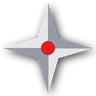
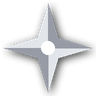
0.40.0: todos os menus no estilo da tela inicial nova
- Criar partida, opções (e vídeo avançado, controles), multijogador (lista, hospedar, rápida,
  ranqueada), campanha, resumos e o gerenciador: a faixa azul vira o tom escuro por cima do vídeo
  (preso às bordas da tela, qualquer que seja o tamanho da cena), as linhas soltas somem e a
  faixa de cima fica escura (mainmenu::restyle_frontend).
- As texturas dos menus pintadas na cor escolhida (menu_theme::themed_textures, paleta escura);
  o Menu moderno desliga sozinho com a Tela inicial nova ligada.
- Cenas: caixa de texto (tipo 10) e vídeo (tipo 9) lidos.
- Ícones dos botões todos brancos; faixa de cima nova (topbar).

Claude-Session: https://claude.ai/code/session_017y1uhTCr6spDjXZeXiXGPY

Changed region(s): [[0.4062, 0.4062, 0.5938, 0.5938]]

diff --git a/src/components/StartScreenCard.tsx b/src/components/StartScreenCard.tsx
@@ -97,7 +97,7 @@ export default function StartScreenCard() {
         <span className="grow" />
         <Switch label={draft.enabled ? t("Desligar") : t("Ligar")} checked={draft.enabled} onChange={(on) => set({ enabled: on })} />
       </div>
-      <p className="muted small">{t("Logo em cima, botões grandes com ícone e borda neon, submenus ao lado, caixa do jogador e notícias. Os botões dos mods da Forja entram no mesmo visual. Só muda a aparência: o jogo e o multijogador continuam iguais.")}</p>
+      <p className="muted small">{t("Logo em cima, botões grandes com ícone e borda neon, submenus ao lado, caixa do jogador e notícias. Os outros menus (criar partida, opções, multijogador, campanha) ganham o mesmo visual e a mesma cor, e os botões dos mods da Forja entram junto. Só muda a aparência: o jogo e o multijogador continuam iguais.")}</p>
       <div className="ss-grid">
         <Preview s={draft} logo={v.logo} />
         <div className="col" style={{ gap: 14 }}>

diff --git a/src/lib/changelog.ts b/src/lib/changelog.ts
@@ -6,6 +6,14 @@ export interface Release { version: string; title: string; items: NewsItem[] }
 
 export const CHANGELOG: Release[] = [
   {
+    version: "0.40.0",
+    title: "Todos os menus no estilo novo",
+    items: [
+      { icon: "palette", title: "Menus remasterizados", text: "Criar partida, opções, multijogador, campanha e resumos ganham o visual da Tela inicial nova: tom escuro por cima do vídeo, faixa de cima escura e botões, painéis e listas na cor que você escolher.", page: "features" },
+      { icon: "category", title: "Ícones brancos", text: "Os ícones dos botões da tela inicial ficam todos brancos.", page: "features" },
+    ],
+  },
+  {
     version: "0.39.1",
     title: "Tela inicial nova e botões de mods no menu do jogo",
     items: [

diff --git a/crates/cp-core/src/startscreen.rs b/crates/cp-core/src/startscreen.rs
@@ -169,7 +169,7 @@ macro_rules! art {
 /// Os desenhos do launcher (nome → PNG).
 const ART: &[(&str, &[u8])] = art![
     "btn_u", "btn_o", "btn_at", "btn_w", "sub_u", "sub_o", "sub_at", "sub_w", "icon_campaign", "icon_skirmish", "icon_multiplayer",
-    "icon_options", "icon_extras", "icon_quit", "icon_mod", "shade", "tint", "panel", "gamertag", "avatar_frame",
+    "icon_options", "icon_extras", "icon_quit", "icon_mod", "shade", "tint", "panel", "gamertag", "avatar_frame", "topbar",
 ];
 
 fn to_dds(img: &Rgba) -> Result<Vec<u8>> {
@@ -267,6 +267,37 @@ pub fn prepare_logo(data: &[u8]) -> Result<Rgba> {
 /// Monta o `.scd` da tela inicial em `dest`. `scene` é a cena de origem (a do jogo ou a de outro
 /// mod), `edit` o que os mods da Forja pedem. Devolve os avisos da montagem.
 pub fn build(scene: &[u8], edit: &MenuEdit, settings: &Settings, stock: &[PathBuf], data_dir: &Path, dest: &Path) -> Result<(PathBuf, Vec<String>)> {
+    build_all(scene, &[], edit, settings, stock, data_dir, dest)
+}
+
+/// Opções do tema dos outros menus (as texturas do jogo pintadas na cor da tela inicial).
+pub fn theme_options(accent: &str) -> crate::menu_theme::ThemeOptions {
+    crate::menu_theme::ThemeOptions {
+        name: "Tela inicial nova".into(),
+        recolor: true,
+        fonts: false,
+        accent: accent.into(),
+        hover: String::new(),
+        bg_darkness: 0.8,
+        bg_tint: 0.12,
+        panel_opacity: 0.92,
+        glow: 0.5,
+        sharpness: 0.5,
+        deblock: 0.5,
+    }
+}
+
+/// Como [`build`], com os outros menus do jogo (caminho, cena de origem) no mesmo visual e as
+/// texturas deles pintadas na cor escolhida.
+pub fn build_all(
+    scene: &[u8],
+    others: &[(String, Vec<u8>)],
+    edit: &MenuEdit,
+    settings: &Settings,
+    stock: &[PathBuf],
+    data_dir: &Path,
+    dest: &Path,
+) -> Result<(PathBuf, Vec<String>)> {
     let accent = crate::menu_theme::parse_hex(&settings.accent).unwrap_or([43, 140, 255]);
     let look = Look::Commander(Commander { news_title: settings.news_title.clone(), news_text: settings.news_text.clone() });
     let logo = if settings.custom_logo {
@@ -291,6 +322,21 @@ pub fn build(scene: &[u8], edit: &MenuEdit, settings: &Settings, stock: &[PathBu
     }
     for (path, data) in &files {
         b.add_bytes(path, data)?;
+    }
+    // os outros menus: cenas no visual novo e as texturas do jogo na cor escolhida
+    for (path, data) in others {
+        match mainmenu::restyle_frontend(data) {
+            Ok(new) => b.add_bytes(path.trim_start_matches('/'), &new)?,
+            Err(e) => built.warnings.push(format!("{}: {e}", path.rsplit('/').next().unwrap_or(path))),
+        }
+    }
+    if !others.is_empty() {
+        let own: std::collections::HashSet<String> = files.iter().map(|(p, _)| p.to_ascii_lowercase()).collect();
+        for (name, data) in crate::menu_theme::themed_textures(stock, &theme_options(&settings.accent))? {
+            if !own.contains(&name.to_ascii_lowercase().replace('\\', "/")) {
+                b.add_bytes(&name, &data)?;
+            }
+        }
     }
     if settings.custom_video {
         let v = Settings::video_path(data_dir);
@@ -375,7 +421,18 @@ fn real_build_when_available() {
         std::fs::copy(logo, Settings::logo_path(&out.join("data"))).unwrap();
         settings.custom_logo = true;
     }
-    let (scd, warnings) = build(&std::fs::read(scene).unwrap(), &MenuEdit::default(), &settings, &stock, &out.join("data"), &out.join(ARCHIVE)).unwrap();
+    // CP_SS_SCENES: pasta com ui/scenes/... extraídos do jogo (os outros menus)
+    let mut others = vec![];
+    if let Ok(dir) = std::env::var("CP_SS_SCENES") {
+        for p in mainmenu::FRONTEND_SCENES {
+            if let Ok(d) = std::fs::read(PathBuf::from(&dir).join(p.trim_start_matches('/'))) {
+                others.push((p.to_string(), d));
+            }
+        }
+    }
+    let mut edit = MenuEdit::default();
+    edit.buttons.push(mainmenu::NewButton { key: "cp:atalho0".into(), label: "MEGA: 4 CONTRA 4".into(), place: mainmenu::Place::Skirmish, native: None, lua: false, code: Some("LOG('atalho')".into()) });
+    let (scd, warnings) = build_all(&std::fs::read(scene).unwrap(), &others, &edit, &settings, &stock, &out.join("data"), &out.join(ARCHIVE)).unwrap();
     assert!(warnings.is_empty(), "{warnings:?}");
     eprintln!("{}", scd.display());
 }

diff --git a/crates/cp-core/src/mainmenu.rs b/crates/cp-core/src/mainmenu.rs
@@ -645,6 +645,60 @@ fn commander(s: &mut Scene, c: &Commander, column: &[(u32, Option<&str>)]) -> Re
     Ok(())
 }
 
+/// Os outros menus do jogo (cenas) que ganham o visual da tela "Comandante".
+pub const FRONTEND_SCENES: &[&str] = &[
+    "/ui/scenes/frontend_skirmish/pc_frontend_skirmish.win.bdf",
+    "/ui/scenes/frontend_options/pc_frontend_options.win.bdf",
+    "/ui/scenes/frontend_options/pc_frontend_options_videoadv.win.bdf",
+    "/ui/scenes/frontend_options/pc_frontend_options_conlayout.win.bdf",
+    "/ui/scenes/frontend_mp_browser/pc_frontend_mp_browser.win.bdf",
+    "/ui/scenes/frontend_mp_host/pc_frontend_mp_host.win.bdf",
+    "/ui/scenes/frontend_mp_quickmatch/pc_frontend_mp_quickmatch.win.bdf",
+    "/ui/scenes/frontend_ranked/pc_frontend_ranked.win.bdf",
+    "/ui/scenes/frontend_campaign/pc_frontend_campaign.win.bdf",
+    "/ui/scenes/frontend_summary_sp/pc_frontend_summary_sp.win.bdf",
+    "/ui/scenes/frontend_summary_mp/pc_frontend_summary_mp.win.bdf",
+    "/ui/scenes/frontend_manager/pc_frontend_manager.win.bdf",
+];
+
+/// Um menu do jogo no visual "Comandante": a faixa azul vira o tom escuro por cima do vídeo (preso
+/// às bordas da tela, qualquer que seja o tamanho da cena), as linhas soltas somem e a faixa de
+/// cima fica escura. O resto (botões, painéis, listas) muda pelas texturas do tema.
+pub fn restyle_frontend(scene: &[u8]) -> Result<Vec<u8>> {
+    let mut s = Scene::parse(scene)?;
+    let tex = |n: &str| format!("{TEX}{n}.dds");
+    let full = Anchors { left: Some(0), right: Some(0), top: Some(0), bottom: Some(0), ..Default::default() };
+    let has = |s: &Scene, n: &str| s.by_name(n).ok().map(|e| e.id);
+    let black = has(&s, "black_overlay");
+    let blue = has(&s, "blue_overlay");
+    // um elemento da raiz cobrindo a tela (os de dentro de grupos ficam como estão)
+    let root_ids: BTreeSet<u32> = {
+        let all = s.elements()?;
+        let mut kids = BTreeSet::new();
+        for e in &all {
+            kids.extend(s.children(e.id)?);
+        }
+        all.iter().map(|e| e.id).filter(|i| !kids.contains(i)).collect()
+    };
+    let tint_target = black.or(blue);
+    if let Some(id) = tint_target {
+        s.set_str_field(id, 112, &tex("tint"))?;
+        if root_ids.contains(&id) {
+            s.set_anchors(id, full)?;
+        }
+    }
+    if let (Some(_), Some(b)) = (black, blue) {
+        s.set_str_field(b, 112, BLANK)?;
+    }
+    if let Some(id) = has(&s, "temp_lines") {
+        s.set_str_field(id, 112, BLANK)?;
+    }
+    if let Some(id) = has(&s, "top_blue_grad") {
+        s.set_str_field(id, 112, &tex("topbar"))?;
+    }
+    Ok(s.to_bytes())
+}
+
 /// Troca o logo da tela "Comandante" por outra textura (`w`×`h` em pixels), na mesma largura e
 /// com a altura da proporção dela (centrado na faixa do logo).
 pub fn set_logo(scene: &[u8], texture: &str, w: u32, h: u32) -> Result<Vec<u8>> {

diff --git a/tools/make_menu_style.py b/tools/make_menu_style.py
@@ -139,7 +139,7 @@ def star(d, s):
     d.polygon(pts, fill=ICON)
     d.polygon([pts[0], (cx, cy), pts[2], pts[1]], fill=ICON_D)
     d.polygon([pts[4], (cx, cy), pts[6], pts[5]], fill=ICON_D)
-    d.ellipse([cx - s * 0.07, cy - s * 0.07, cx + s * 0.07, cy + s * 0.07], fill=RED + (255,))
+    d.ellipse([cx - s * 0.07, cy - s * 0.07, cx + s * 0.07, cy + s * 0.07], fill=(255, 255, 255, 255))
 
 
 def swords(d, s):
@@ -198,7 +198,7 @@ def puzzle(d, s):
     d.rectangle([m, m * 1.4, s - m, s - m], fill=ICON)
     d.ellipse([s * 0.4, m * 0.5, s * 0.6, m * 0.5 + s * 0.2], fill=ICON)
     d.ellipse([s - m - s * 0.1, s * 0.45, s - m + s * 0.1, s * 0.65], fill=ICON)
-    d.rectangle([m, m * 1.4, s - m, m * 1.4 + s * 0.06], fill=RED + (255,))
+    d.rectangle([m, m * 1.4, s - m, m * 1.4 + s * 0.06], fill=ICON_D)
 
 
 def font(size):
@@ -310,6 +310,17 @@ def gamertag():
     done(img, w * 2, h * 2, "gamertag")
 
 
+def topbar():
+    """faixa de cima dos outros menus: escura, some para baixo, com um filete de destaque"""
+    w, h = 64, 128
+    img = Image.new("RGBA", (w, h))
+    d = ImageDraw.Draw(img)
+    for y in range(h):
+        t = y / (h - 1)
+        d.line([(0, y), (w, y)], fill=(6, 7, 10, int(235 * (1 - t) ** 0.8)))
+    img.save(os.path.join(OUT, "topbar.png"), optimize=True)
+
+
 def avatar_frame():
     """moldura reta da foto (a do jogo é inclinada e fica torta na caixa nova)"""
     w = h = 48
@@ -374,4 +385,5 @@ if __name__ == "__main__":
     panel()
     gamertag()
     avatar_frame()
+    topbar()
     print("ok:", sorted(os.listdir(OUT)))

diff --git a/crates/cp-core/src/menu_theme.rs b/crates/cp-core/src/menu_theme.rs
@@ -381,6 +381,26 @@ pub fn build(
     Ok(res)
 }
 
+/// As texturas dos menus com o tema (sem as fontes), para quem monta junto com outras coisas (a
+/// tela inicial nova): (nome dentro do jogo, DDS).
+pub fn themed_textures(sources: &[PathBuf], opts: &ThemeOptions) -> Result<Vec<(String, Vec<u8>)>> {
+    let todo: Vec<Entry> = entries(sources, false)?.into_iter().filter(|e| e.key.ends_with(".dds")).collect();
+    let mut out = Vec::new();
+    let mut open: Option<(PathBuf, Scd)> = None;
+    for batch in todo.chunks(48) {
+        let mut raw = Vec::with_capacity(batch.len());
+        for e in batch {
+            if open.as_ref().map(|(p, _)| p != &e.src).unwrap_or(true) {
+                open = Some((e.src.clone(), Scd::open(&e.src)?));
+            }
+            raw.push((e, open.as_mut().expect("aberto").1.read_at(e.index)?));
+        }
+        let done: Vec<_> = raw.par_iter().filter_map(|(e, data)| theme_dds(&e.key, data, opts).ok().flatten().map(|b| (e.name.clone(), b))).collect();
+        out.extend(done);
+    }
+    Ok(out)
+}
+
 /// Texturas usadas na prévia do menu principal na interface.
 pub const PREVIEW_KEYS: &[&str] = &[
     "blue_overlay.dds",

diff --git a/crates/cp-core/src/workspace.rs b/crates/cp-core/src/workspace.rs
@@ -401,7 +401,16 @@ impl Workspace {
         std::fs::create_dir_all(&dir).at(&dir)?;
         let dest = dir.join(ss::ARCHIVE);
         let archive = if settings.enabled {
-            let (archive, w) = ss::build(&scene, &edit, &settings, &stock, &self.data_dir, &dest)?;
+            // os outros menus no mesmo visual (o Menu moderno pintaria por cima em outra cor)
+            if self.profiles.active().mods.iter().any(|m| m.id == "menu-moderno" && m.enabled) {
+                self.profiles.set_enabled(&active, "menu-moderno", false)?;
+                warnings.push("o Menu moderno foi desligado: a Tela inicial nova já pinta todos os menus na cor dela".into());
+            }
+            let others: Vec<(String, Vec<u8>)> = crate::mainmenu::FRONTEND_SCENES
+                .iter()
+                .filter_map(|p| crate::forja::effective_bytes(&stock, &mod_paths, p).map(|d| (p.to_string(), d)))
+                .collect();
+            let (archive, w) = ss::build_all(&scene, &others, &edit, &settings, &stock, &self.data_dir, &dest)?;
             warnings.extend(w);
             archive
         } else {

diff --git a/crates/cp-core/src/scene.rs b/crates/cp-core/src/scene.rs
@@ -37,8 +37,10 @@ const SIZES: [Option<usize>; 16] = [
     Some(136),
     Some(144),
     Some(164),
+    // 9: vídeo (só um por cena; o tamanho não importa para ler)
     None,
-    None,
+    // 10: caixa de texto editável
+    Some(156),
     None,
     Some(128),
     Some(152),
@@ -239,7 +241,12 @@ impl Scene {
             if n == 0 || p == NONE {
                 continue;
             }
-            let size = size.ok_or_else(|| bad(format!("tipo de elemento {k} desconhecido")))?;
+            // tipo de tamanho desconhecido: com um registro só, dá para ler mesmo assim
+            let size = match size {
+                Some(sz) => *sz,
+                None if n == 1 => 32,
+                None => return Err(bad(format!("tipo de elemento {k} desconhecido"))),
+            };
             if n > 100_000 || p as usize + n * size > self.pl.len() {
                 return Err(bad("tabela fora do conteúdo"));
             }
